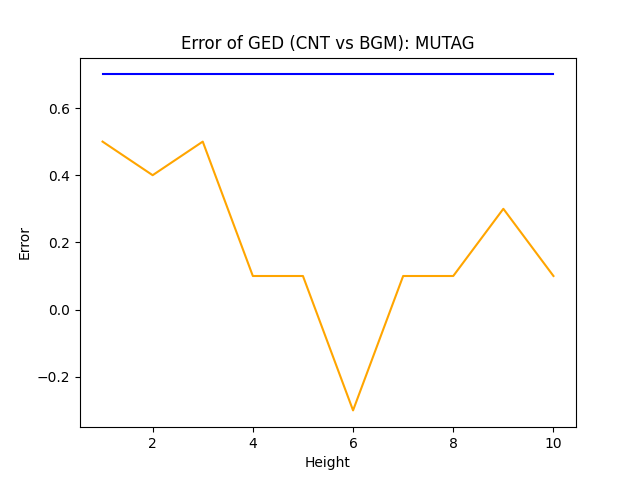
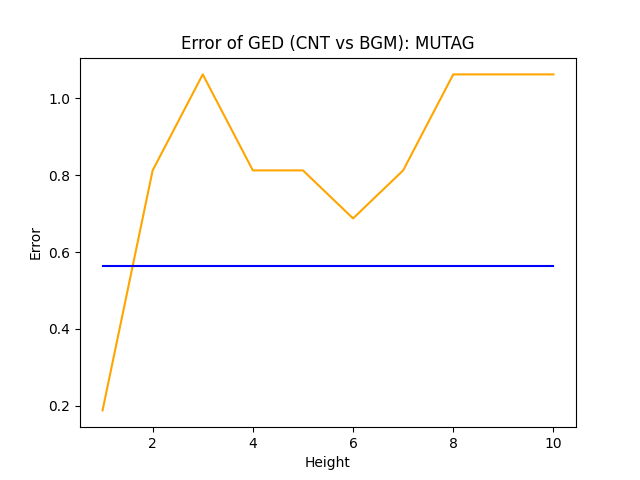
beginning of cython, substructure matching and added planning

diff --git a/graph_substructure_matching.py b/graph_substructure_matching.py
@@ -8,6 +8,7 @@ import numpy as np
 from scipy.optimize import linear_sum_assignment
 import main as main
 import os
+from itertools import combinations
 
 basetime = t.time()
 
@@ -75,81 +76,87 @@ for graph_id in node_to_graph["graph_id"].unique():
 
 print(f"Loading the Graphs: {t.time() - basetime}s")
 
-import seaborn as sns
+def create_subgraph(graph, nodes):
+    subgraph = nx.Graph()
+    subgraph.graph["id"] = graph.graph["id"]
+    for node in nodes:
+        subgraph.add_node(node, label=graph.nodes[node]["label"])
+    for source, target in graph.edges:
+        if source in nodes and target in nodes:
+            subgraph.add_edge(source, target, label=graph.edges[source, target]["label"])
+    return subgraph
 
-# Assuming cost_matrix is your matrix
-def plot_cost_matrix(cost_matrix, title="Cost Matrix"):
-    plt.figure(figsize=(10, 8))
-    sns.heatmap(cost_matrix, annot=True, fmt="d", cmap="coolwarm", cbar=True)
-    plt.xlabel('Graph 1 Nodes')
-    plt.ylabel('Graph 2 Nodes')
-    plt.title(title)
-    plt.show()
+def create_all_subgraphs(graph):
+    all_subgraphs = []
+    for i in range(1, len(graph.nodes) + 1):
+        for subgraph_nodes in combinations(graph.nodes, i):
+            all_subgraphs.append(create_subgraph(graph, subgraph_nodes))
+    return all_subgraphs
 
+def create_benzol_ring():
+    ring = nx.Graph()
+    ring.graph["id"] = "benzol"
+    ring.add_node(1, label="0")
+    ring.add_node(2, label="0")
+    ring.add_node(3, label="0")
+    ring.add_node(4, label="0")
+    ring.add_node(5, label="0")
+    ring.add_node(6, label="0")
+
+    ring.add_edge(1, 2, label="0")
+    ring.add_edge(2, 3, label="0")
+    ring.add_edge(3, 4, label="0")
+    ring.add_edge(4, 5, label="0")
+    ring.add_edge(5, 6, label="0")
+    ring.add_edge(6, 1, label="0")
+    return ring
 
 if __name__ == "__main__":
-    n = 20
+    # matched_substructures = {}
+    # subgraphs = create_all_subgraphs(graphs[1])
 
-    cost_matrix, edit_matrix, matchings = main.calculate_cost_matrix({k: graphs[k] for k in list(graphs)[:n]}, 10, 0)
+    ring = create_benzol_ring()
 
-    # plot_cost_matrix(cost_matrix, title="Cost Matrix")
+    # i = 0
 
-    for i in range(n): 
-        for j in range(n):
-            if i == j:
-                continue
-            if i > j:
-                continue
-            new_graph = main.graph_matcher(graphs[i+1], graphs[j+1], edit_matrix[i,j], matchings[i,j])
-            current_bool = main.isomorph_check(graphs[j+1], new_graph)
-            if not current_bool:
-                print(edit_matrix[i,j])
-                print(matchings[i,j])
-                main.print_two_graphs(graphs[j+1], new_graph)
-                print(i+1, j+1)
-                print("\n")
-                print("\n")
+    # for subgraph in subgraphs:
+    #     # check if subgraph is connected
+    #     if nx.is_connected(subgraph):
+    #         _,_,GED,_,_ = main.calculate_GED_bgm(subgraph, ring)
+    #         matched_substructures[i] = (GED,subgraph)
+    #         i += 1
 
-    bgm_cost_matrix, bgm_edit_matrix, bgm_matchings = main.standard_bgm_matrix({k: graphs[k] for k in list(graphs)[:n]})
+    # sorted_matches = dict(sorted(matched_substructures.items(), key=lambda item: item[1][0]))
+    # min_key, (min_ged, min_subgraph) = min(matched_substructures.items(), key=lambda item: item[1][0])
 
-    # print(bgm_cost_matrix)
+    # main.print_two_graphs(min_subgraph, ring)
+    nodes1 = [1,2,3,4,5,6]
+    nodes2 = [4,5,7,8,9,10]
+    nodes3 = [9,10,11,12,13,14]
 
-    # avg value of cost_matrix
-    print(f"Mean")
-    print(np.mean(cost_matrix))
-    print(np.mean(bgm_cost_matrix))
-    print("--------------------")
-    print(f"Average")
-    print(np.average(cost_matrix))
-    print(np.average(bgm_cost_matrix))
-    print("--------------------")
-    print(f"Max. Difference")
-    # highest difference in cost_matrix
-    # find min, not on diagonal
-    print(np.max(cost_matrix) - np.min(cost_matrix[np.nonzero(cost_matrix)]))
-    print(np.max(bgm_cost_matrix) - np.min(bgm_cost_matrix[np.nonzero(bgm_cost_matrix)]))
-    print("--------------------")
+    subgraph1 = create_subgraph(graphs[1],nodes1)
+    subgraph2 = create_subgraph(graphs[1],nodes2)
+    subgraph3 = create_subgraph(graphs[1],nodes3)
 
-    for i in range(n): 
-        for j in range(n):
-            if i == j:
-                continue
-            if i > j:
-                continue
-            new_graph = main.graph_matcher(graphs[i+1], graphs[j+1], bgm_edit_matrix[i,j], bgm_matchings[i,j])
-            current_bool = main.isomorph_check(graphs[j+1], new_graph)
-            if not current_bool:
-                print(bgm_edit_matrix[i,j])
-                print(bgm_matchings[i,j])
-                main.print_two_graphs(graphs[j+1], new_graph)
-                print(i+1, j+1)
-                print("\n")
-                print("\n")
+    # main.print_two_graphs(subgraph1,ring)
+    # main.print_two_graphs(subgraph2,ring)
+    # main.print_two_graphs(subgraph3,ring)
+    
+    _,_,ged1,_,_ = main.calculate_GED_bgm(subgraph1, ring)
+    _,_,ged2,_,_ = main.calculate_GED_bgm(subgraph2, ring)
+    _,_,ged3,_,_ = main.calculate_GED_bgm(subgraph3, ring)
 
-    # save cost matrix to file
-    # np.savetxt(f"{dataset_name}_cost_matrix.csv", cost_matrix, delimiter=",")
+    print(ged1)
+    print(ged2)
+    print(ged3)
 
-    print(cost_matrix - bgm_cost_matrix)
-    print(np.average(cost_matrix - bgm_cost_matrix))
+    _,_,ged_bgm1,_,_ = main.standard_bgm(subgraph1, ring)
+    _,_,ged_bgm2,_,_ = main.standard_bgm(subgraph2, ring)
+    _,_,ged_bgm3,_,_ = main.standard_bgm(subgraph3, ring)
 
-    print("Done")
+    print(ged_bgm1)
+    print(ged_bgm2)
+    print(ged_bgm3)
+
+
+    print("Done!")

diff --git a/runtime_calculations.py b/runtime_calculations.py
@@ -160,8 +160,8 @@ if __name__ == "__main__":
     heights = [1,2,3,4,5,6,7,8,9,10]
     errors_cnt = []
     errors_bgm = []
-    x = 33
-    y = 64
+    x = 1
+    y = 13
     actual = nx.graph_edit_distance(graphs[x],graphs[y],node_match=main.node_match,edge_match=main.edge_match, timeout=10)
     for height in heights:
         print(f"Height: {height}")

diff --git a/setup.py b/setup.py
@@ -1,0 +1,8 @@
+from setuptools import setup
+from Cython.Build import cythonize
+import numpy 
+
+setup(
+    ext_modules=cythonize("ged_cnt.pyx"),
+    include_dirs=[numpy.get_include()]
+)
